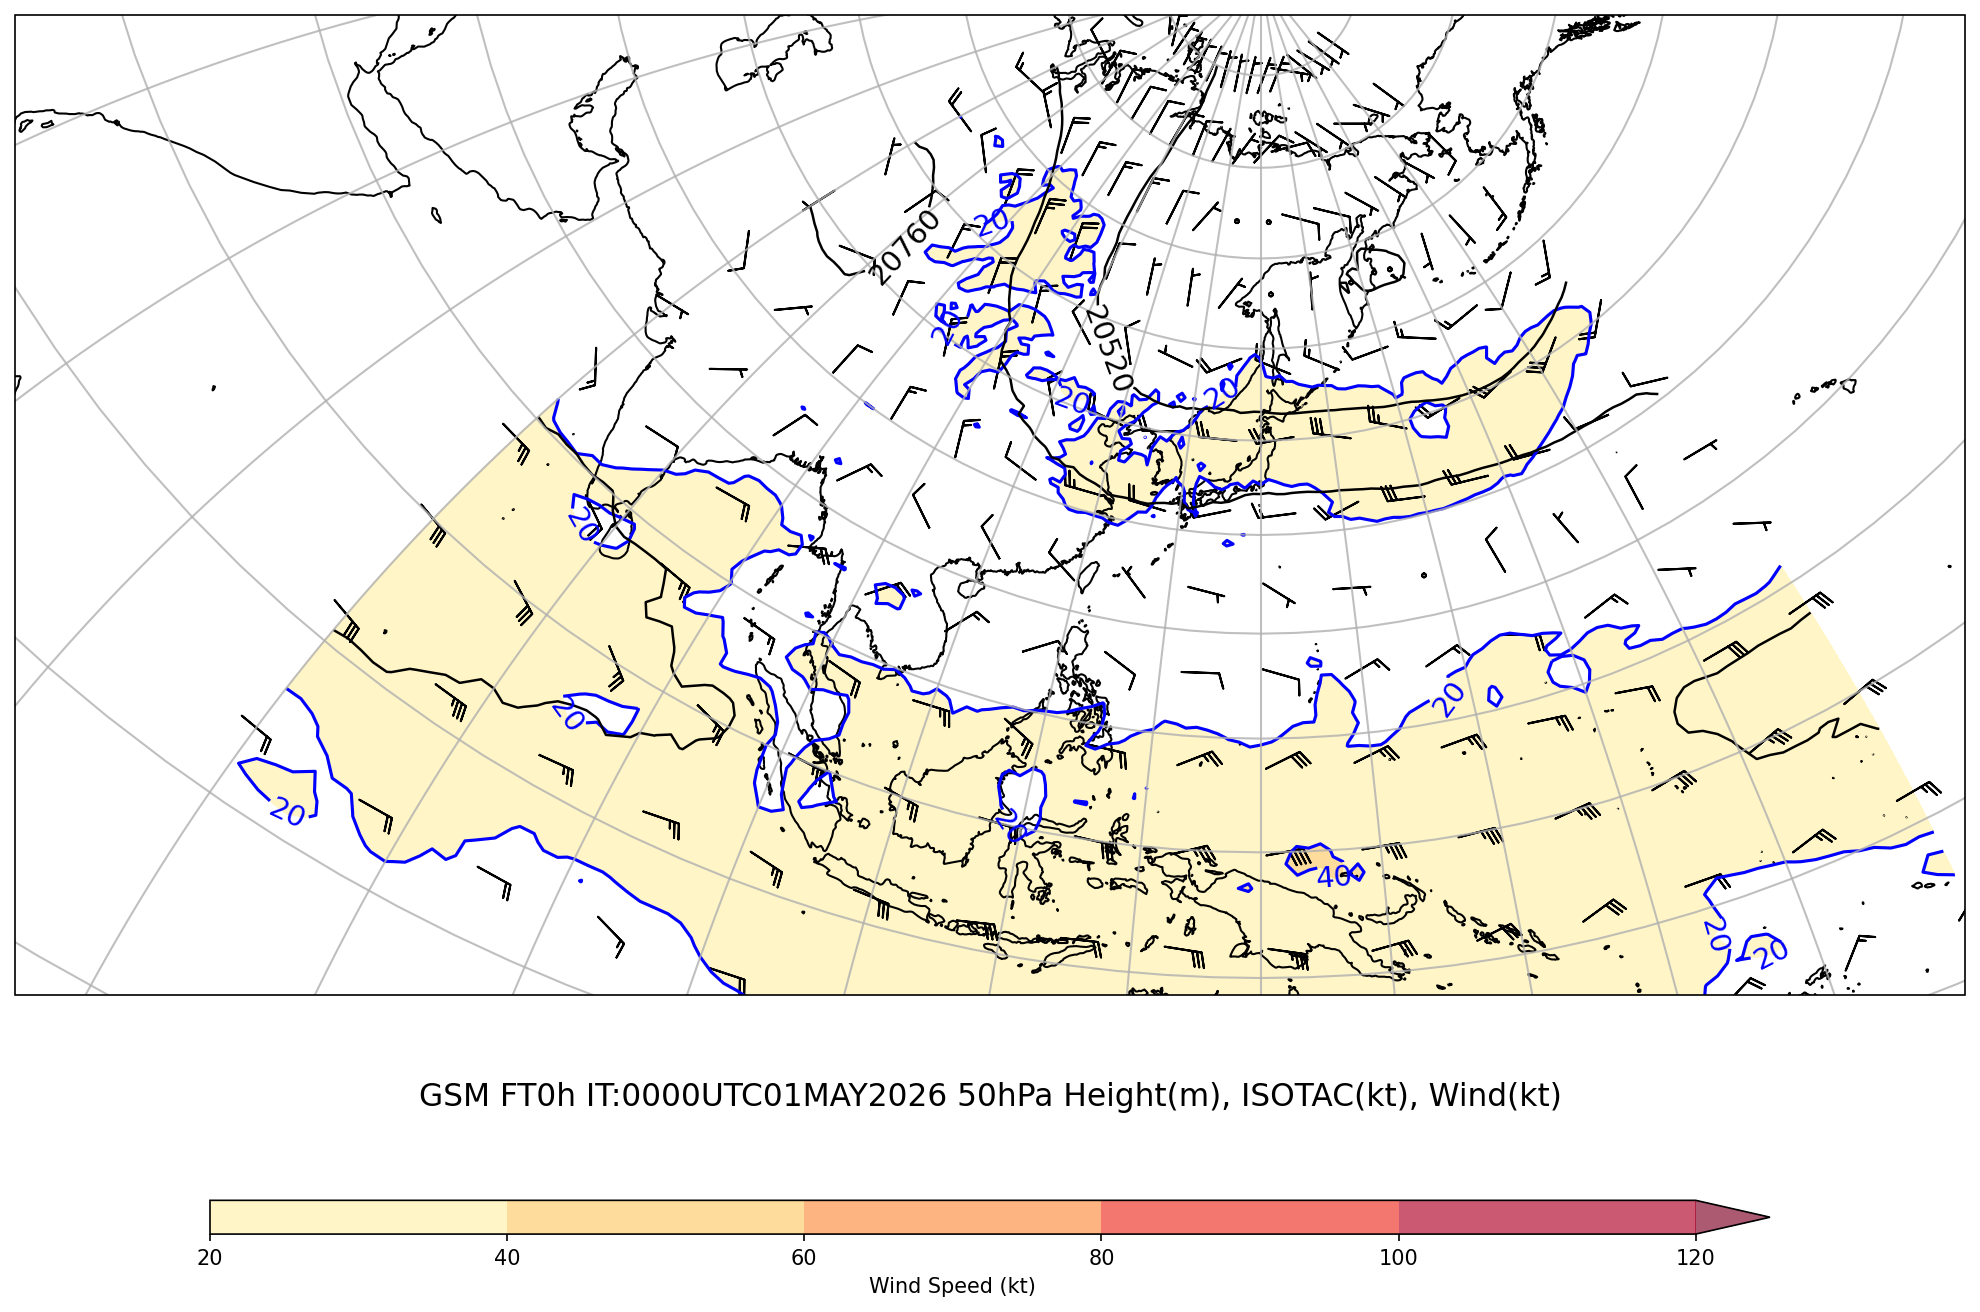
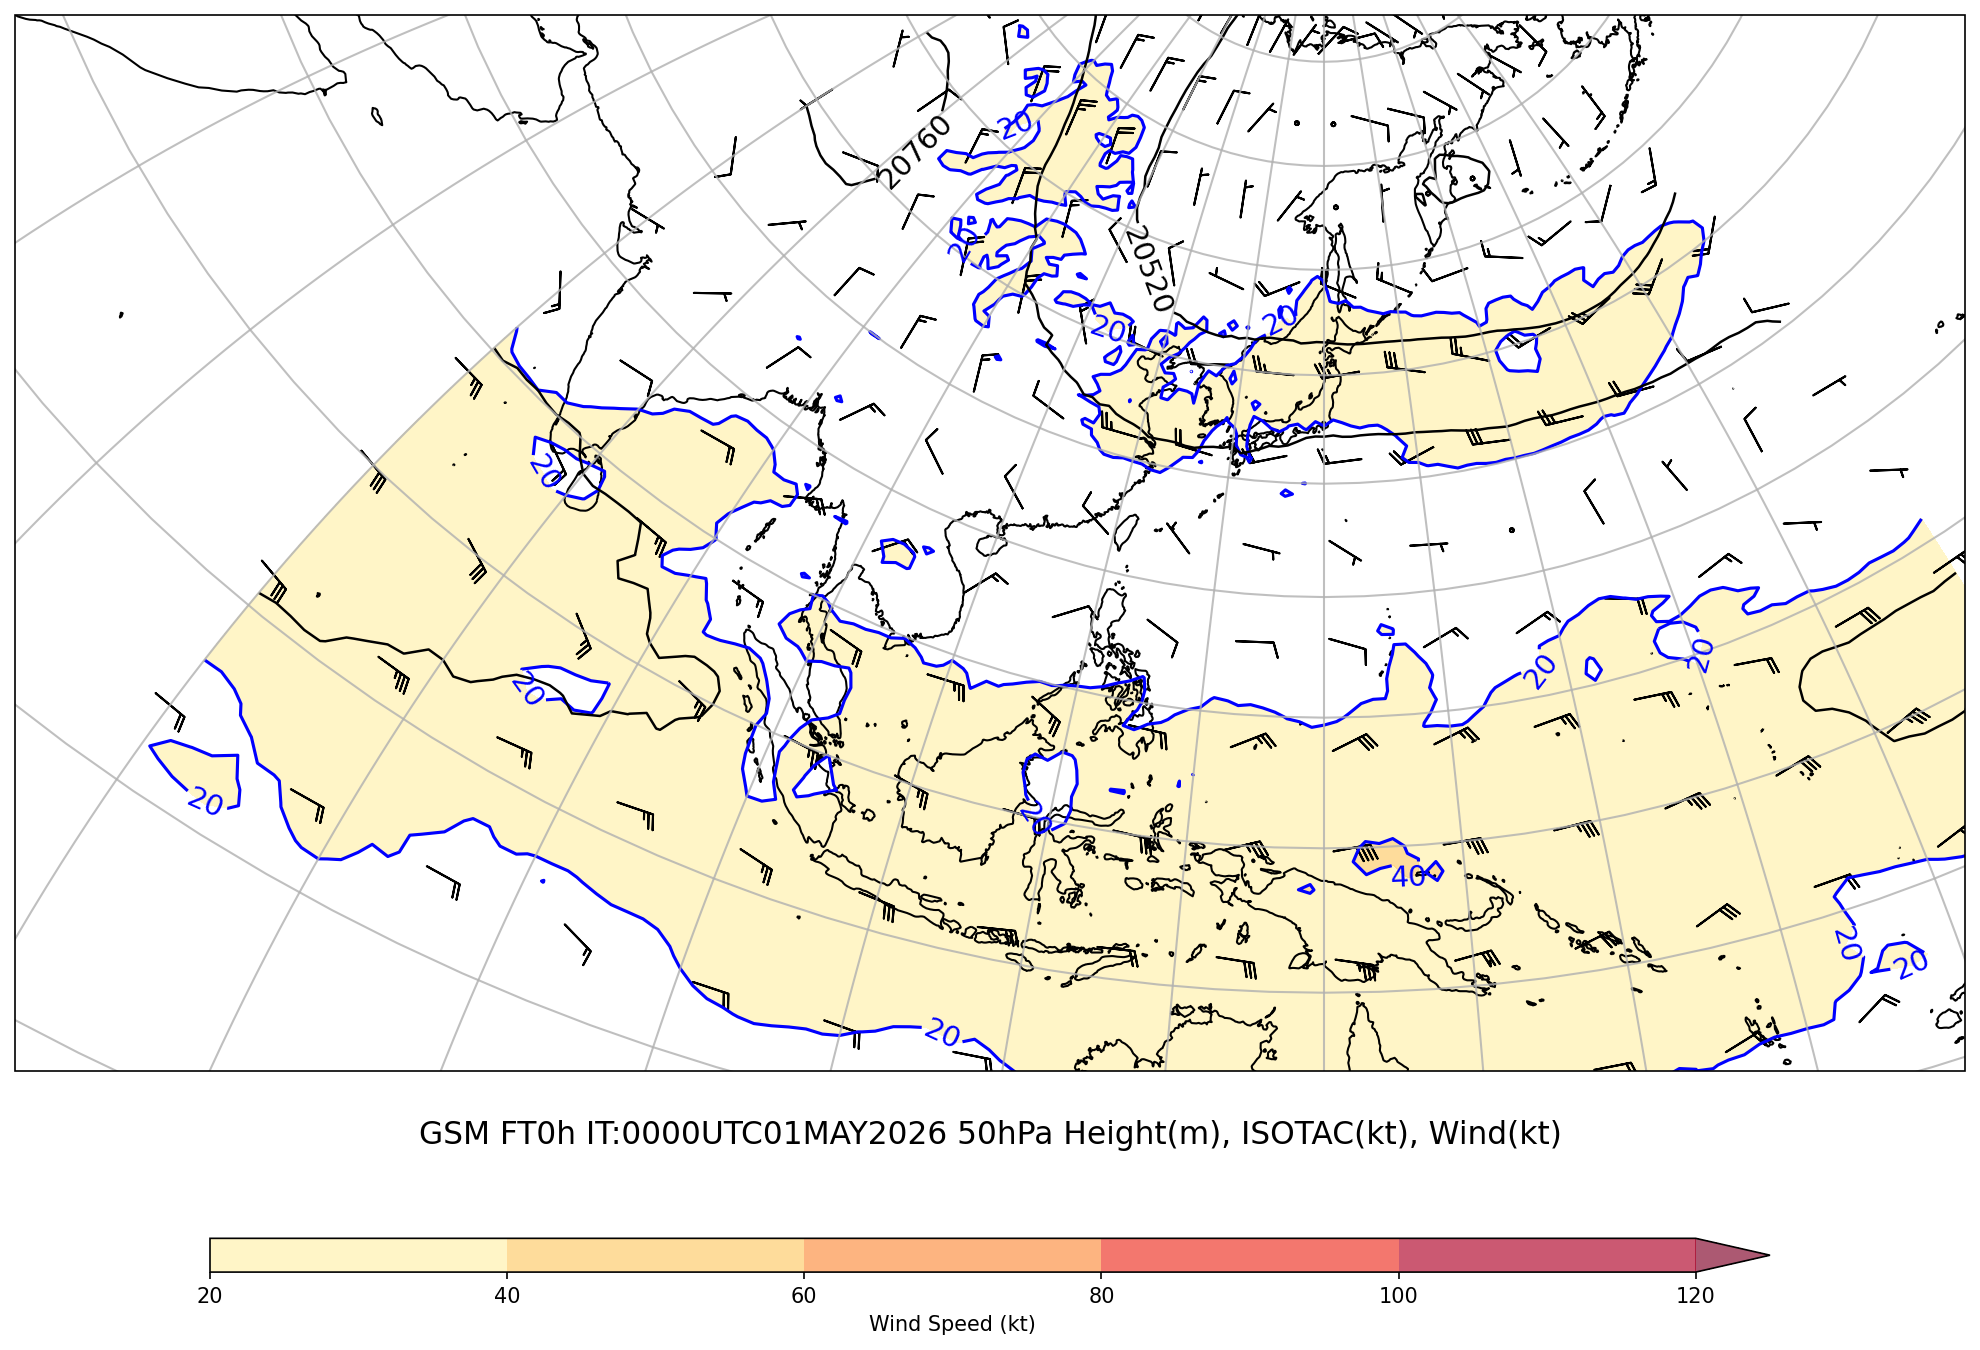
report: ジェット・前線解析ワイドレポート追加 FT0 (2026050100)

diff --git a/reports/2026050100-wide/jet_front_wide_report_FT0.md b/reports/2026050100-wide/jet_front_wide_report_FT0.md
@@ -2,7 +2,7 @@
 
 **初期時刻**: 2026/05/01 00UTC
 
-*(描画領域: 上層 lonW=48 lonE=192 latS=-11.5 latN=45.5、850hPa lonW=97 lonE=169 latS=-2.5 latN=42.5)*
+*(描画領域: 上層 lonW=60 lonE=180 latS=-15 latN=40、850hPa lonW=97 lonE=169 latS=-2.5 latN=42.5)*
 
 ---
 
